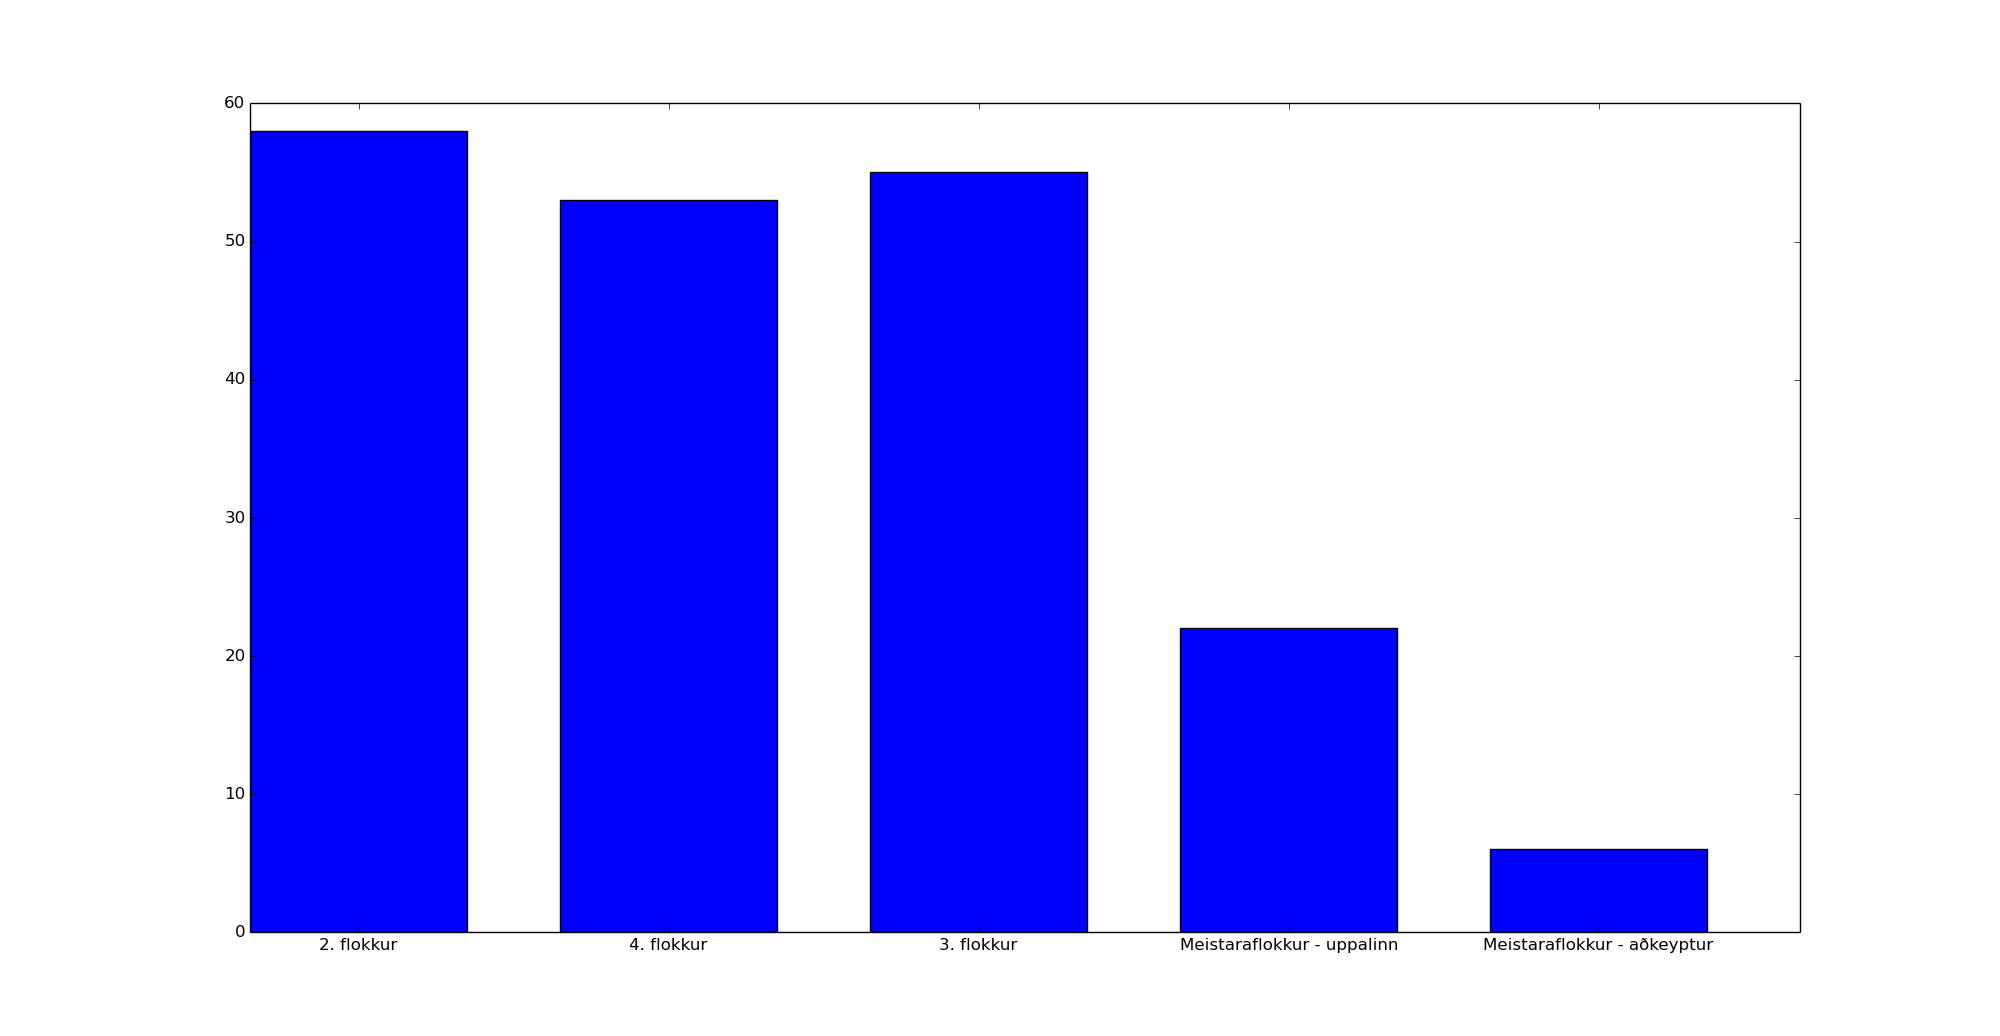
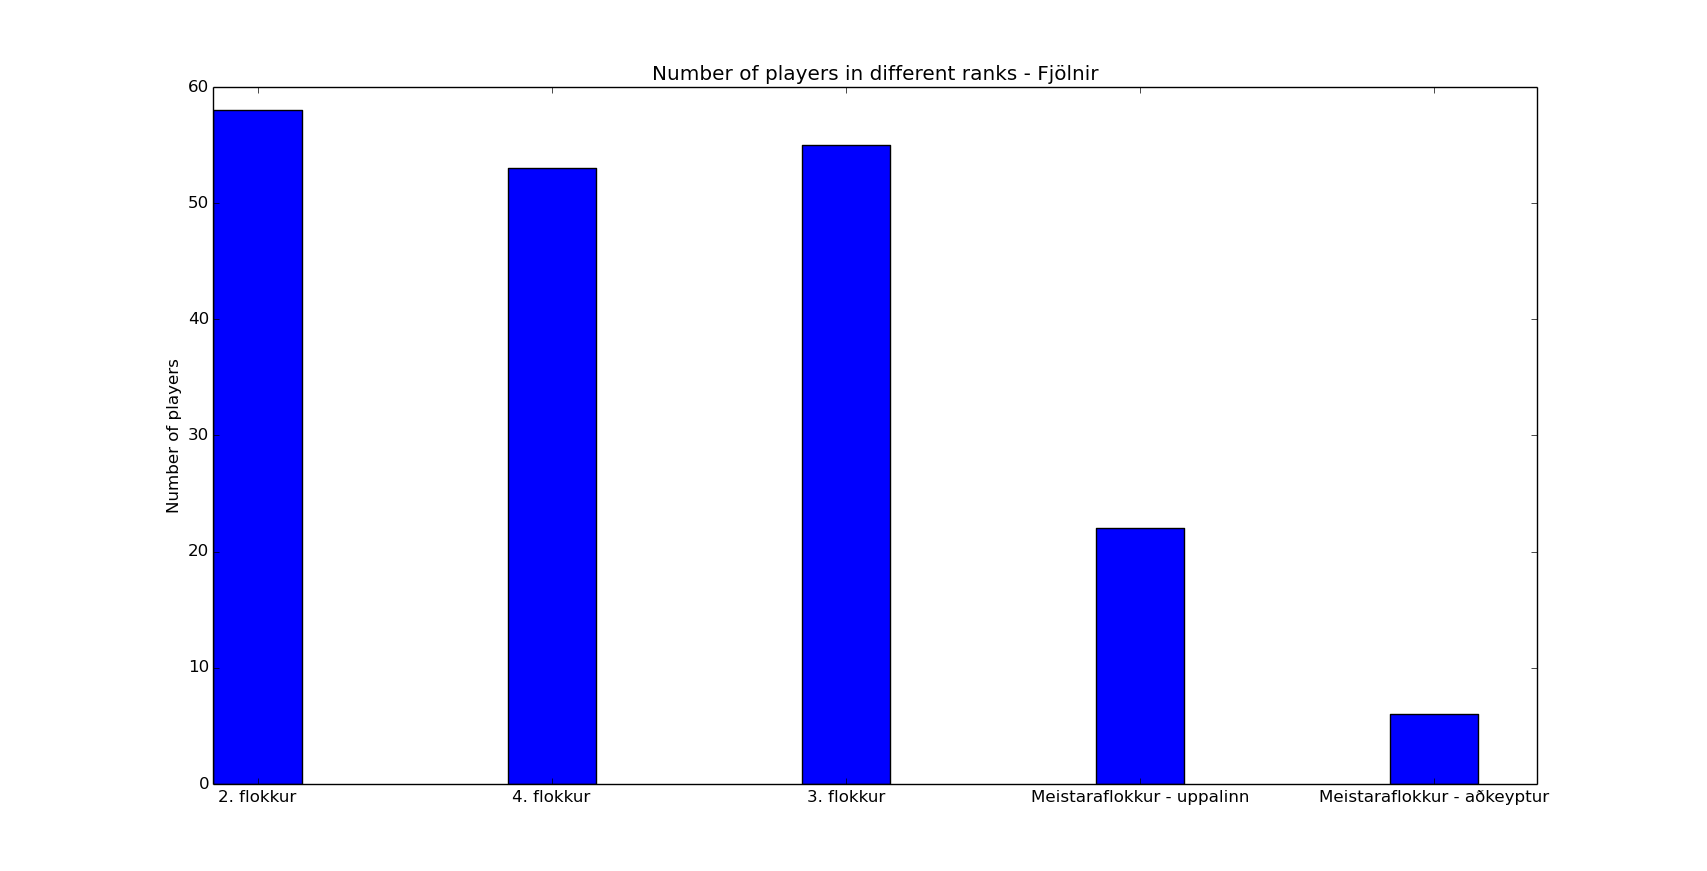
Final version

diff --git a/Verkefni1/spiders/ksi_spider.py b/Verkefni1/spiders/ksi_spider.py
@@ -1,59 +1,92 @@
 # -*- coding: utf-8 -*-
+# Made by Thorsteinn Hjortur Jonsson with help from Petur Rafn Bryde
+# Date of construction 29.08'15 - 31.08'15
 import scrapy
 import urlparse
 
+# Here we define the fields for the spider items
 from Verkefni1.items import KsiItem
+# We need this to join the urls
 from urlparse import urljoin
-from scrapy.linkextractors.lxmlhtml import LxmlLinkExtractor
+# My debugger - Must have!
 import pdb
 
+# Spider class derived from basic spider from the genspider command
 class KsiSpiderSpider(scrapy.Spider):
     name = "playerspider"
     allowed_domains = ["ksi.is"]
+    # This is the default base url - it will be overwritten if given a
+    # custom url with the CrawlerWorker in main
     start_urls = [
            'http://www.ksi.is/mot/leikmenn/?felag=107&stada=0&kyn=%25&ArgangurFra=1980&ArgangurTil=1995'
     ]
 
-
+    # This function parses through the list of players of given genders
+    # of the given age span for the given teams. This information can be
+    # read from the url given to parse.
     def parse(self, response):
+        # Read through all rows in the table of class "alt"
+        # This was discovered from playing with scrapy and reading the
+        # page source of the www.ksi.is
         for sel in response.xpath('//tr[@class="alt"]'):
+            # initalize the item
             item = KsiItem()
             # Fetch information about a player from table of players
-            # Each player has its row
+            # Each player has its row, the names are kept in the /a
+            # column and the year of birth is kept in the third column
+            # utf-8 encoding must be ensure
             item['name'] = sel.xpath('td/a/text()')[0].extract().encode("utf-8")
             item['year'] = sel.xpath('td[3]/text()')[0].extract().encode("utf-8")
             # Fetch further information on the player from the url
             player_url = sel.xpath('td/a/@href').extract()[0]
-            # This url gives the game data for the player
+            # This url gives the game data for the player, this was
+            # discovered from reading the page source of the website
+            # which hosts game data for each player.
             table_url = '&pListi=7&dFra-dd=31&dFra-mm=07&dFra-yy=1912&dTil-dd=30&dTil-mm=08&dTil-yy=2015'
+            # join the game-data url with the base url
             url = response.urljoin(player_url + table_url)
+            # Make a request to fetch data from the game-data website
             request = scrapy.Request(url, callback=self.parse_dir_contents)
+            # To transfer the item to a new parsing function
             request.meta['item'] = item
+            # return the item from the request and go to the next player
             yield request
 
-
+    # This parse function parses the website which hosts all registered
+    # games for a specific player. It returns a the field flokkur which
+    # is a list of all the youth levels that the player has been
+    # registered for.
     def parse_dir_contents(self, response):
+        # necessary to fetch the item from the other parse method
         item = response.meta['item']
+        # initialize an empty string and an empty list for conveniance
         temp_flokkur = ''
         flokkur = []
-        f4 = 0
-        f3 = 0
-        f2 = 0
-        f1 = 0
+        # Boolean variables to prevent us from grabbing the duplicates
+        f4 = False
+        f3 = False
+        f2 = False
+        f1 = False
+        # Goes through each row in the table and fetches all the
+        # different youth levels that the player has been registered at
         for sel in response.xpath('//tr[@class="alt"]'):
+            # The youth level data is stored in column two
             temp_flokkur = sel.xpath('td[2]/text()')[0].extract().encode("utf-8")
-            if f4 == 0 and temp_flokkur.find('4.') != -1:
+            # Sometimes the players have played for different teams at
+            # the same youth level and the registration reflects that
+            # Thus we just look for the substring 'x.' where x is the
+            # corresponding number of the youth level.
+            if f4 == False and temp_flokkur.find('4.') != -1:
                 flokkur.append('4. flokkur')
-                f4 = 1
-            elif f3 == 0 and temp_flokkur.find('3.') != -1:
+                f4 = True
+            elif f3 == False and temp_flokkur.find('3.') != -1:
                 flokkur.append('3. flokkur')
-                f3 = 1
-            elif f2 == 0 and temp_flokkur.find('2.') != -1:
+                f3 = True
+            elif f2 == False and temp_flokkur.find('2.') != -1:
                 flokkur.append('2. flokkur')
-                f2 = 1
-            elif f1 == 0 and temp_flokkur.find('Meistara') != -1:
+                f2 = True
+            elif f1 == False and temp_flokkur.find('Meistara') != -1:
                 flokkur.append(u'Meistaraflokkur')
-                f1 = 1
-
+                f1 = True
         item['flokkur'] = flokkur
         yield item

diff --git a/Verkefni1_summary.tex b/Verkefni1_summary.tex
@@ -1,1 +1,52 @@
-Hérna kemur verkefnið1
+\documentclass[12pt, a4paper]{article}
+\usepackage[icelandic]{babel}
+\usepackage[utf8]{inputenc}
+\usepackage[T1]{fontenc}
+\usepackage[left=1.5cm, right=1.5cm, top=1.5cm, bottom=2.5cm]{geometry}
+\usepackage{amsmath}
+\usepackage{amsthm}
+\usepackage{enumerate}
+\usepackage{amsfonts}
+\usepackage{xparse}
+%--------------------------------------------------------------------------------------------- Listings stillingar 
+\usepackage{listings}
+\usepackage{color}
+\usepackage{etoolbox}
+\definecolor{mygreen}{rgb}{0,0.7,0.42}
+\definecolor{mygray}{rgb}{0.5,0.5,0.5}
+\definecolor{mymauve}{rgb}{0.58,0,0.82}
+\definecolor{backcolor}{rgb}{1.0, 0.98, 0.875}
+\definecolor{harvestgold}{rgb}{0.85,0.57,0.0}
+\definecolor{indigo}{rgb}{0.0,0.25,0.888888882}
+
+\lstset{ %
+        backgroundcolor=\color{backcolor},   % choose the background color; you must add \usepackage{color} or \usepackage{xcolor}
+        basicstyle=\ttfamily\footnotesize,        % the size of the fonts that are used for the code
+        breakatwhitespace=false,         % sets if automatic breaks should only happen at whitespace
+        breaklines=true,                 % sets automatic line breaking
+        captionpos=b,                    % sets the caption-position to bottom
+        commentstyle=\color{mygreen},    % comment style
+        deletekeywords={...},            % if you want to delete keywords from the given language
+        escapeinside={\%*}{*)},          % if you want to add LaTeX within your code
+        extendedchars=true,              % lets you use non-ASCII characters; for 8-bits encodings only, does not work with UTF-8
+        frame=single,                          % adds a frame around the code
+        keepspaces=true,                 % keeps spaces in text, useful for keeping indentation of code (possibly needs columns=flexible)
+        keywordstyle=\color{indigo},       % keyword style
+        language=Fortran,                 % the language of the code
+        otherkeywords={*,...},            % if you want to add more keywords to the set
+        numbers=left,                    % where to put the line-numbers; possible values are (none, left, right)
+        numbersep=5pt,                   % how far the line-numbers are from the code
+        numberstyle=\tiny\color{mygray}, % the style that is used for the line-numbers
+        rulecolor=\color{black},         % if not set, the frame-color may be changed on line-breaks within not-black text (e.g. comments (green here))
+        showspaces=false,                % show spaces everywhere adding particular underscores; it overrides 'showstringspaces'
+        showstringspaces=false,          % underline spaces within strings only
+        showtabs=false,                  % show tabs within strings adding particular underscores
+        stepnumber=2,                    % the step between two line-numbers. If it's 1, each line will be numbered
+        stringstyle=\color{mymauve},     % string literal style
+        tabsize=2,                         % sets default tabsize to 2 spaces
+        title=\lstname                   % show the filename of files included with \lstinputlisting; also try caption instead of title
+}
+
+\begin{document}
+test
+\end{document}

diff --git a/main.py b/main.py
@@ -40,7 +40,7 @@ class CrawlerWorker():
 
 
 
-def get_team_ages(team_code, gender, min_age=18):
+def get_team_data(team_code, gender, min_age=18):
 	# crawls ksi.is and finds the the number of registered matches at
 	# each youth level (level 4,3 and 2)
 	# returns a vector of ints
@@ -80,12 +80,19 @@ if __name__ == "__main__":
 	# ignores players born later than minimum_age
 
 	# parameters:
-	teams = {'KR': '112'}
-	KRitem = get_team_ages(teams['KR'], gender = 'other')
+	teams = {'KR': '900'}
+        # Start the spider
+	KRitem = get_team_data(teams['KR'], gender = 'other')
+	# We list all the youth divisions as we iterate through each
+	# player. Then we make a histogram of the frequencies for each
+	# youth level.
 	flokkur_list = []
 	temp_player = 'name'
-	#pdb.set_trace()
 	for player in KRitem:
+            # We say that a player has gone through the youth ranks if
+            # it has ever been registered for the team in the youth
+            # ranks, otherwise if he has only games for the first team
+            # then we say that he is bought.
             uppalinn = False
 	    print player
             if '4. flokkur' in player['flokkur']:
@@ -102,14 +109,18 @@ if __name__ == "__main__":
             elif 'Meistaraflokkur' in player['flokkur']:
                 flokkur_list.append(u'Meistaraflokkur - aðkeyptur')
 
+        # The counter registers the frequencies for different youth
+        # levels.
         cnt = Counter(flokkur_list)
         flokkur_names = cnt.keys()
         flokkur_counts = cnt.values()
-# Plot histogram using matplotlib bar().
+        # Plot histogram using matplotlib bar().
         indexes = np.arange(len(flokkur_names))
-        width = 0.7
+        width = 0.3
         plt.bar(indexes, flokkur_counts, width)
         plt.xticks(indexes + width * 0.5, flokkur_names)
+        plt.ylabel('Number of players')
+        plt.title(u'Number of players in different ranks - ÍBV')
         plt.show()
 
 
